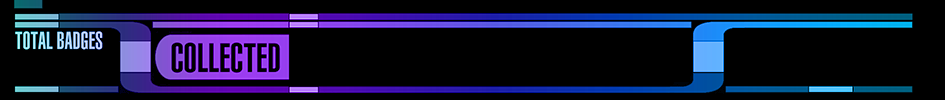
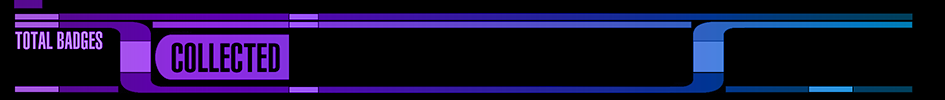
flip nexus <-> nebula colors again, tongo continuum fixes

diff --git a/cogs/tongo.py b/cogs/tongo.py
@@ -274,12 +274,12 @@ class TongoDividendsView(discord.ui.View):
 class Tongo(commands.Cog):
   def __init__(self, bot):
     self.bot = bot
-    self.trade_buttons = [
-      pages.PaginatorButton("prev", label="    ⬅     ", style=discord.ButtonStyle.primary, row=1),
+    self.tongo_buttons = [
+      pages.PaginatorButton("prev", label="⬅", style=discord.ButtonStyle.primary, row=1),
       pages.PaginatorButton(
         "page_indicator", style=discord.ButtonStyle.gray, disabled=True, row=1
       ),
-      pages.PaginatorButton("next", label="     ➡    ", style=discord.ButtonStyle.primary, row=1),
+      pages.PaginatorButton("next", label="➡", style=discord.ButtonStyle.primary, row=1),
     ]
     self.first_auto_confront = True
 
@@ -752,11 +752,11 @@ class Tongo(commands.Cog):
       value="\n".join([f"* {m.display_name}" for m in tongo_player_members]),
       inline=False
     )
-    confirmation_embed.add_field(
-      name="Total Badges In The Great Material Continuum!",
-      value="\n".join([f"* {b['badge_name']}" for b in tongo_pot_chunks[0]]) if tongo_pot_chunks else "* (empty)",
-      inline=False
-    )
+    # confirmation_embed.add_field(
+    #   name="Total Badges In The Great Material Continuum!",
+    #   value="\n".join([f"* {b['badge_name']}" for b in tongo_pot_chunks[0]]) if tongo_pot_chunks else "* (empty)",
+    #   inline=False
+    # )
     confirmation_embed.set_image(url="https://i.imgur.com/aWLYGKQ.gif")
     confirmation_embed.set_footer(
       text=f"Ferengi Rule of Acquisition {random.choice(rules_of_acquisition)}",
@@ -766,23 +766,51 @@ class Tongo(commands.Cog):
     zeks_table = await self.bot.fetch_channel(get_channel_id("zeks-table"))
     await zeks_table.send(embed=confirmation_embed)
 
-    # Continuation embeds if needed
-    if len(tongo_pot_chunks) > 1:
-      for t_chunk in tongo_pot_chunks[1:]:
-        chunk_embed = discord.Embed(
-          title=f"Index requested by **{user_member.display_name}** (Continued)",
-          color=discord.Color.dark_purple()
-        )
-        chunk_embed.add_field(
-          name="Total Badges In The Great Material Continuum!",
-          value="\n".join([f"* {b['badge_name']}" for b in t_chunk]),
-          inline=False
-        )
-        chunk_embed.set_footer(
-          text=f"Ferengi Rule of Acquisition {random.choice(rules_of_acquisition)}",
-          icon_url="https://i.imgur.com/GTN4gQG.jpg"
-        )
-        await zeks_table.send(embed=chunk_embed)
+    continuum_embeds = []
+    for page_idx, t_chunk in enumerate(tongo_pot_chunks):
+      embed = discord.Embed(
+        title=f"The Great Material Continuum",
+        description=f"(Page {page_idx + 1} of {len(tongo_pot_chunks)})",
+        color=discord.Color.dark_purple()
+      )
+      embed.add_field(
+        name="Total Badges in the Continuum!",
+        value="\n".join([f"* {b['badge_name']}" for b in t_chunk]),
+        inline=False
+      )
+      embed.set_footer(
+        text=f"Ferengi Rule of Acquisition {random.choice(rules_of_acquisition)}",
+        icon_url="https://i.imgur.com/GTN4gQG.jpg"
+      )
+      continuum_embeds.append(embed)
+
+    # Send Continuum Badges as Paginator
+    continuum_paginator = pages.Paginator(
+      pages=continuum_embeds,
+      show_indicator=True,
+      custom_buttons=self.tongo_buttons,
+      use_default_buttons=False,
+      timeout=180
+    )
+    await continuum_paginator.send(ctx.interaction or ctx, target=zeks_table)
+
+    # # Continuation embeds if needed
+    # if len(tongo_pot_chunks) > 1:
+    #   for t_chunk in tongo_pot_chunks[1:]:
+    #     chunk_embed = discord.Embed(
+    #       title=f"Index requested by **{user_member.display_name}** (Continued)",
+    #       color=discord.Color.dark_purple()
+    #     )
+    #     chunk_embed.add_field(
+    #       name="Total Badges In The Great Material Continuum!",
+    #       value="\n".join([f"* {b['badge_name']}" for b in t_chunk]),
+    #       inline=False
+    #     )
+    #     chunk_embed.set_footer(
+    #       text=f"Ferengi Rule of Acquisition {random.choice(rules_of_acquisition)}",
+    #       icon_url="https://i.imgur.com/GTN4gQG.jpg"
+    #     )
+    #     await zeks_table.send(embed=chunk_embed)
 
     # Continuum image display
     continuum_images = await generate_paginated_continuum_images(tongo_pot_badges)
@@ -1465,7 +1493,7 @@ async def generate_paginated_continuum_images(continuum_badges):
     base_image.paste(header, (0, 0))
 
     row_y = 110
-    row_h = 180
+    row_h = dims.slot_height + 20
     rows = math.ceil(len(page_badges) / 3)
     for i in range(rows):
       base_image.paste(row_bg, (0, row_y + i * row_h))
@@ -1479,7 +1507,7 @@ async def generate_paginated_continuum_images(continuum_badges):
       slot_frames = compose_badge_slot(badge, get_theme_colors('gold'), badge_image, disable_overlays=True, resize=True)
       badge_slots.append(slot_frames[0])
 
-    current_y = 140
+    current_y = row_y + 20
     index = 0
     for row in range(rows):
       row_badges = badge_slots[index:index+3]

diff --git a/utils/image_utils.py b/utils/image_utils.py
@@ -306,9 +306,6 @@ async def generate_badge_collection_images(user, prestige, badge_data, collectio
   start = time.perf_counter()
   logger.info("[timing] Starting generate_badge_collection_images")
 
-  # XXX
-  # badge_data = badge_data[:45]
-
   layout = _get_collection_grid_layout()
   theme = (
     await get_theme_preference(user.id, collection_type)
@@ -337,6 +334,7 @@ async def generate_badge_collection_images(user, prestige, badge_data, collectio
     canvas_start = time.perf_counter()
     canvas = await build_collection_canvas(
       user,
+      prestige,
       page_badges,
       badge_data,
       page_number,
@@ -370,7 +368,7 @@ async def generate_badge_collection_images(user, prestige, badge_data, collectio
   gc.collect()
   return images
 
-async def build_collection_canvas(user, page_data, all_data, page_number, total_pages, collection_label, collection_type, theme):
+async def build_collection_canvas(user, prestige, page_data, all_data, page_number, total_pages, collection_label, collection_type, theme):
   total_rows = max(math.ceil(len(page_data) / 6) - 1, 0)
 
   if collection_type == "sets":
@@ -380,7 +378,7 @@ async def build_collection_canvas(user, page_data, all_data, page_number, total_
     collected_count = len(all_data)
     total_count = await db_get_max_badge_count()
 
-  title_text = f"{user.display_name}'s Badge Collection"
+  title_text = f"{user.display_name}'s Badge Collection ({PRESTIGE_TIERS[prestige]})"
   if collection_label:
     title_text += f": {collection_label}"
 

diff --git a/utils/prestige.py b/utils/prestige.py
@@ -15,13 +15,13 @@ PRESTIGE_TIERS = {
 PRESTIGE_THEMES = {
   1: {  # Nebula
     "gradient_start": (0, 0, 0),
-    "gradient_end": (20, 30, 25),
+    "gradient_end": (24, 16, 48),
     "border_gradient_colors": [
-      (50, 200, 140),    # Deep Teal-Green
+      (75, 0, 130),      # Deep Purple
       (138, 43, 226),    # Violet
-      (0, 191, 255)      # Bright Cyan
+      (0, 191, 255)      # Bright Blue
     ],
-    "primary": (50, 200, 140),
+    "primary": (75, 0, 130),
     "highlight": (138, 43, 226)
   },
   2: {  # Galaxy
@@ -57,15 +57,15 @@ PRESTIGE_THEMES = {
     "primary":  (0, 255, 100),
     "highlight": (50, 200, 140)
   },
-  5: {  # Nexus
+  5: {  # Nebula
     "gradient_start": (0, 0, 0),
-    "gradient_end": (24, 16, 48),
+    "gradient_end": (20, 30, 25),
     "border_gradient_colors": [
-      (75, 0, 130),      # Deep Purple
+      (50, 200, 140),    # Deep Teal-Green
       (138, 43, 226),    # Violet
-      (0, 191, 255)      # Bright Blue
+      (0, 191, 255)      # Bright Cyan
     ],
-    "primary": (75, 0, 130),
+    "primary": (50, 200, 140),
     "highlight": (138, 43, 226)
   },
   6: {  # Transcendence
